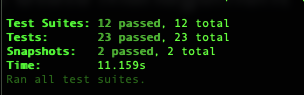
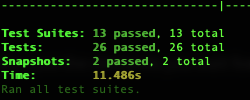
Updated test coverage capture

Changed region(s): [[0.0, 0.0, 1.0, 1.0], [0.98, 0.0, 1.0, 0.0211], [0.728, 0.0, 0.756, 0.0211]]

diff --git a/src/components/Header/__tests__/Header.spec.jsx b/src/components/Header/__tests__/Header.spec.jsx
@@ -3,27 +3,33 @@ import { render, screen, fireEvent } from '@testing-library/react';
 import renderer from 'react-test-renderer';
 
 import Header from '..';
+import AuthProvider, { AuthContext } from '../../../providers/Auth';
 import CustomProvider from '../../../providers/Custom';
-import AuthProvider from '../../../providers/Auth';
 import { StyledSwitch } from '../Header.styles';
 
 const WrappedHeader = () => (
-  <AuthProvider>
-    <CustomProvider>
-      <Header />
-    </CustomProvider>
-  </AuthProvider>
+  <CustomProvider>
+    <Header />
+  </CustomProvider>
 );
 
 describe('<Header />', () => {
   it('renders search bar', () => {
-    render(<WrappedHeader />);
+    render(
+      <AuthProvider>
+        <WrappedHeader />
+      </AuthProvider>
+    );
 
     expect(screen.getByLabelText('search')).toBeInTheDocument();
   });
 
   it('typing on search bar', () => {
-    render(<WrappedHeader />);
+    render(
+      <AuthProvider>
+        <WrappedHeader />
+      </AuthProvider>
+    );
 
     const searchElement = screen.getByLabelText('search');
     const value = 'wizeline';
@@ -35,7 +41,11 @@ describe('<Header />', () => {
   it('submits text in search bar', () => {
     const mockedSubmit = jest.fn(() => {});
 
-    render(<WrappedHeader />);
+    render(
+      <AuthProvider>
+        <WrappedHeader />
+      </AuthProvider>
+    );
 
     const formElement = screen.getByLabelText('search form');
     const inputElement = formElement.querySelector('input');
@@ -51,7 +61,11 @@ describe('<Header />', () => {
   });
 
   it('renders dark mode switch', () => {
-    render(<WrappedHeader />);
+    render(
+      <AuthProvider>
+        <WrappedHeader />
+      </AuthProvider>
+    );
 
     expect(screen.getByLabelText('dark mode switch')).toBeInTheDocument();
   });
@@ -83,7 +97,11 @@ describe('<Header />', () => {
   });
 
   it('shows account menu', () => {
-    const renderRes = render(<WrappedHeader />);
+    const renderRes = render(
+      <AuthProvider>
+        <WrappedHeader />
+      </AuthProvider>
+    );
 
     const element = renderRes.container.querySelector('button[aria-controls="menuId"]');
 
@@ -91,5 +109,32 @@ describe('<Header />', () => {
 
     expect(element.querySelector('svg')).toBeInTheDocument();
     expect(screen.getByTestId('menu-testid')).toBeVisible();
+  });
+
+  it('shows and fires logout option', () => {
+    const mockedLogout = jest.fn();
+
+    render(
+      <AuthContext.Provider
+        value={{
+          authenticated: true,
+          currentUser: {
+            id: '123',
+            name: 'Wizeline',
+            avatarUrl:
+              'https://media.glassdoor.com/sqll/868055/wizeline-squarelogo-1473976610815.png',
+          },
+          logout: mockedLogout,
+        }}
+      >
+        <WrappedHeader />
+      </AuthContext.Provider>
+    );
+
+    const logOutElement = screen.getByText(/log out/i);
+    expect(logOutElement).toBeInTheDocument();
+
+    fireEvent.click(logOutElement);
+    expect(mockedLogout).toHaveBeenCalled();
   });
 });

diff --git a/src/components/LoginDialog/__tests__/LoginDialog.spec.jsx b/src/components/LoginDialog/__tests__/LoginDialog.spec.jsx
@@ -1,0 +1,32 @@
+import React from 'react';
+import { render, screen, fireEvent } from '@testing-library/react';
+
+import LoginDialog from '..';
+import AuthProvider, { AuthContext } from '../../../providers/Auth';
+
+describe('<LoginDialog />', () => {
+  it('renders login dialog', () => {
+    render(
+      <AuthProvider>
+        <LoginDialog open />
+      </AuthProvider>
+    );
+
+    expect(screen.getByTestId('login-dialog-testid')).toBeInTheDocument();
+  });
+
+  it('fires login callback', () => {
+    const loginMock = jest.fn(async () => {});
+
+    render(
+      <AuthContext.Provider value={{ login: loginMock }}>
+        <LoginDialog open onClose={(f) => f} />
+      </AuthContext.Provider>
+    );
+
+    const element = screen.getByRole('button', { name: /login/i });
+    fireEvent.click(element);
+
+    expect(loginMock).toHaveBeenCalled();
+  });
+});

diff --git a/src/components/LoginDialog/LoginDialog.component.jsx b/src/components/LoginDialog/LoginDialog.component.jsx
@@ -12,9 +12,7 @@ const LoginDialog = ({ open, onClose }) => {
 
   const handleOnChange = (hook) => ({ target: { value } }) => hook(value);
 
-  const handleLogin = (e) => {
-    e.preventDefault();
-
+  const handleLogin = () => {
     login(username, password)
       .then(() => onClose())
       .catch(console.error);
@@ -24,10 +22,11 @@ const LoginDialog = ({ open, onClose }) => {
     <StyledDialog
       open={open}
       onClose={onClose}
-      aria-labelledby="simple-dialog-title"
+      data-testid="login-dialog-testid"
+      aria-labelledby="login-dialog"
       onSubmit={handleLogin}
     >
-      <DialogTitle id="simple-dialog-title">Login dialog</DialogTitle>
+      <DialogTitle id="login-dialog">Login dialog</DialogTitle>
       <DialogContent>
         <StyledTextField
           autoFocus

diff --git a/src/pages/Login/__tests__/Login.spec.jsx b/src/pages/Login/__tests__/Login.spec.jsx
@@ -30,10 +30,9 @@ describe('<Login />', () => {
     );
 
     const element = screen.getByText('login');
-
     const clickEvent = createEvent.click(element);
-
     fireEvent.click(element, clickEvent);
+
     expect(loginMock).toHaveBeenCalled();
     expect(historyMock.push).toHaveBeenCalled();
   });
